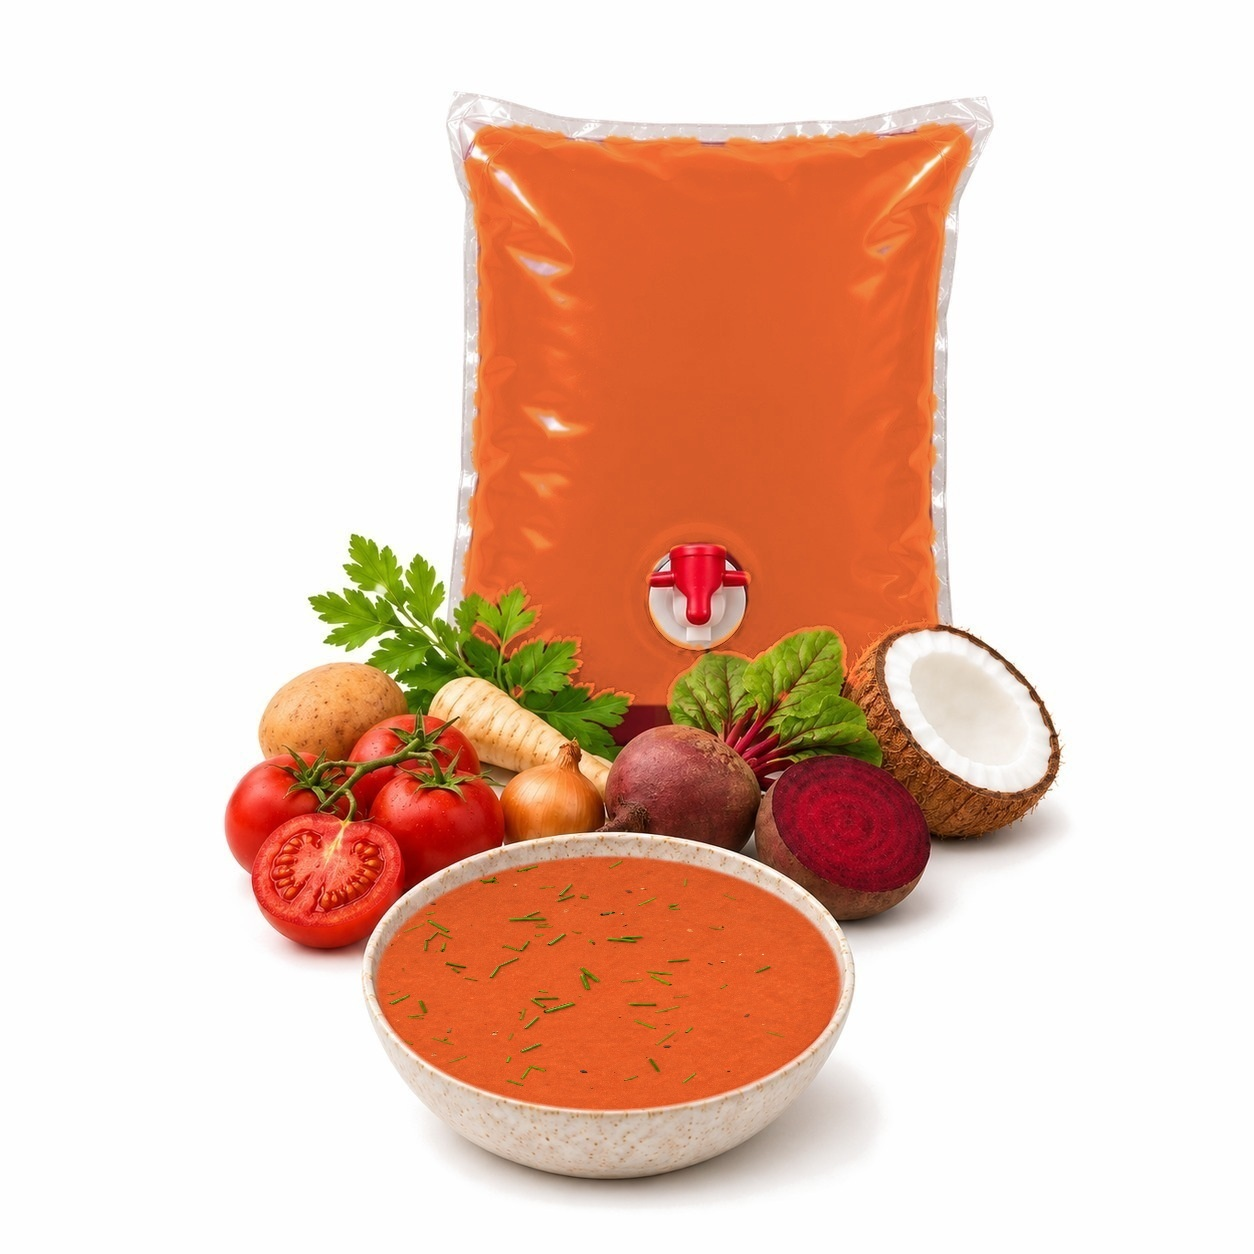
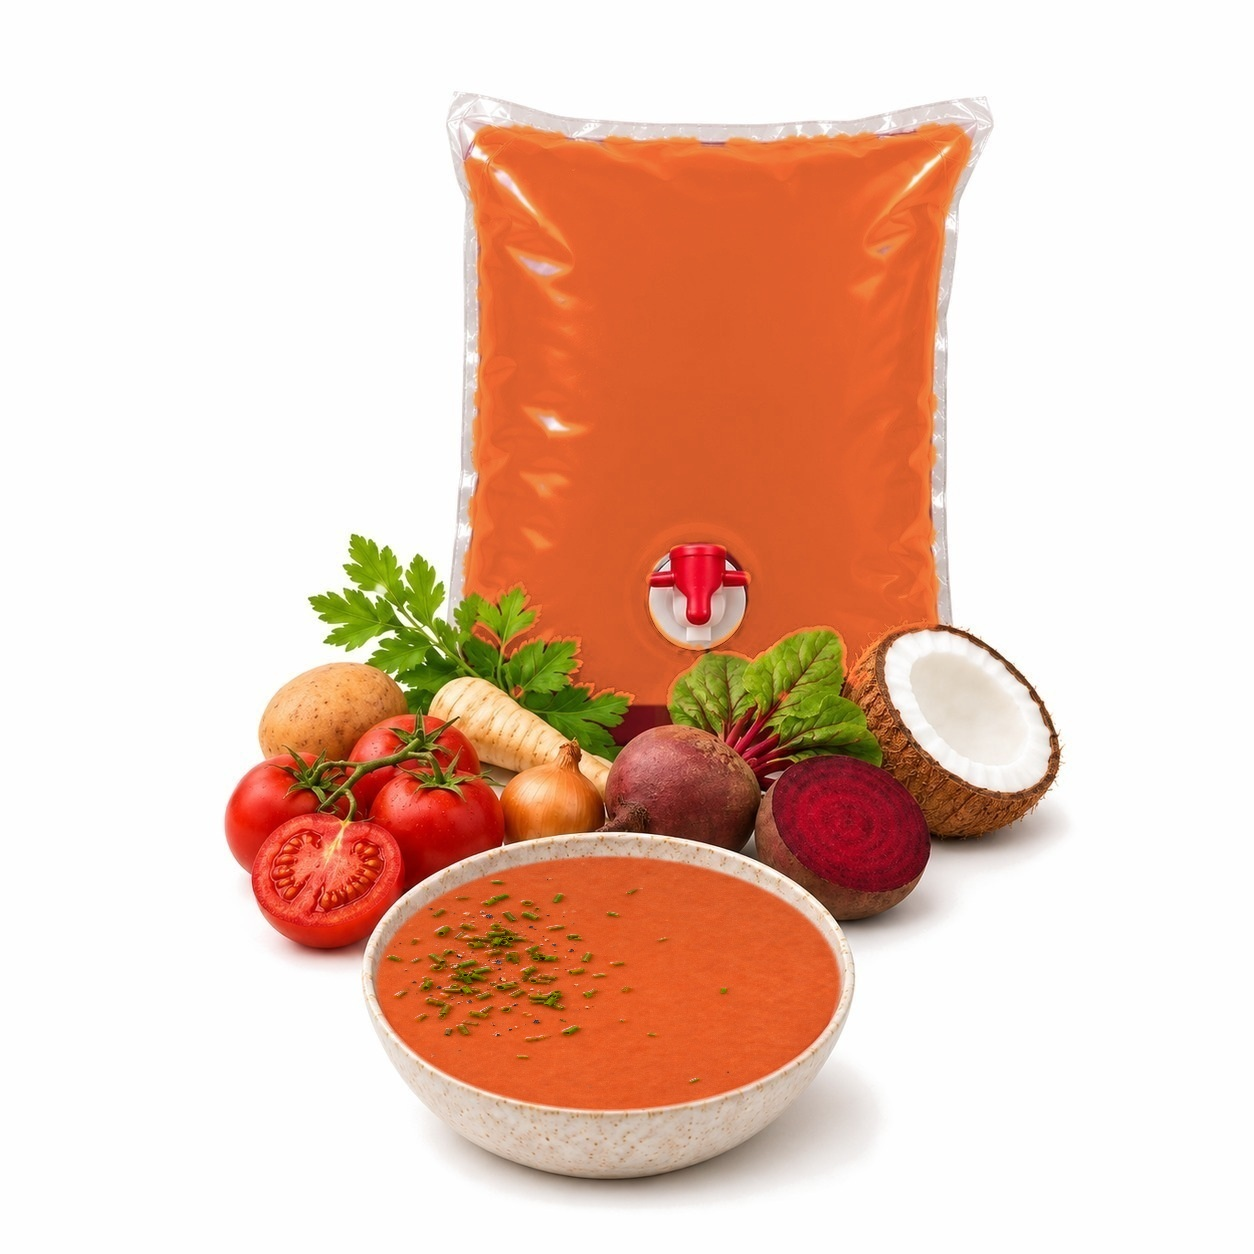
Rajčatová polévka s červenou řepou: přirozeněji hozená pažitka na fotkách (#626)
Claude-Session: https://claude.ai/code/session_016QL8fyP6fDGx2RMwKgd8AU

Changed region(s): [[0.311, 0.6842, 0.5287, 0.8708]]

diff --git a/dashboard/lib/eshop/productImages.ts b/dashboard/lib/eshop/productImages.ts
@@ -42,6 +42,8 @@ const BACKDROP: Record<string, string> = {
   "/eshop/polevky/rajcatova-polevka-s-cervenou-repou-begina-v3.jpg": "#fefefe",
   "/eshop/polevky/rajcatova-polevka-s-cervenou-repou-miska-v6.jpg": "#fefefe",
   "/eshop/polevky/rajcatova-polevka-s-cervenou-repou-begina-v6.jpg": "#fefefe",
+  "/eshop/polevky/rajcatova-polevka-s-cervenou-repou-miska-v7.jpg": "#fefefe",
+  "/eshop/polevky/rajcatova-polevka-s-cervenou-repou-begina-v7.jpg": "#fefefe",
   "/eshop/polevky/spenatova-polevka-miska-v3.jpg": "#fefefe",
   "/eshop/polevky/gulasova-polevka-z-hlivy-ustricne-miska-v3.jpg": "#fefefe",
   "/eshop/polevky/kulajda-miska-v3.jpg": "#fefefe",
